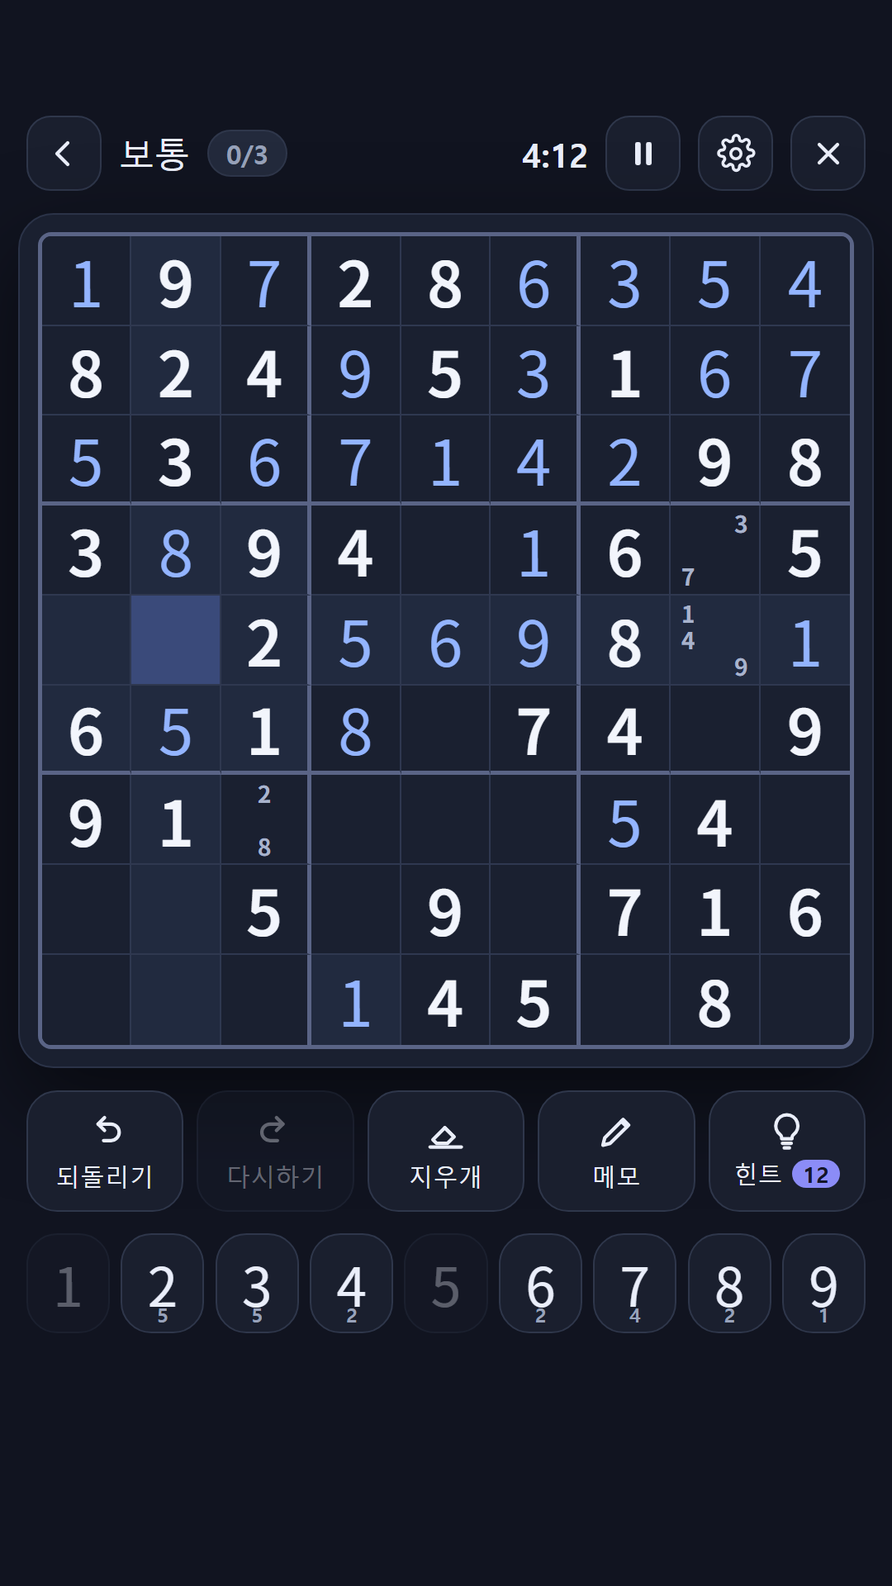
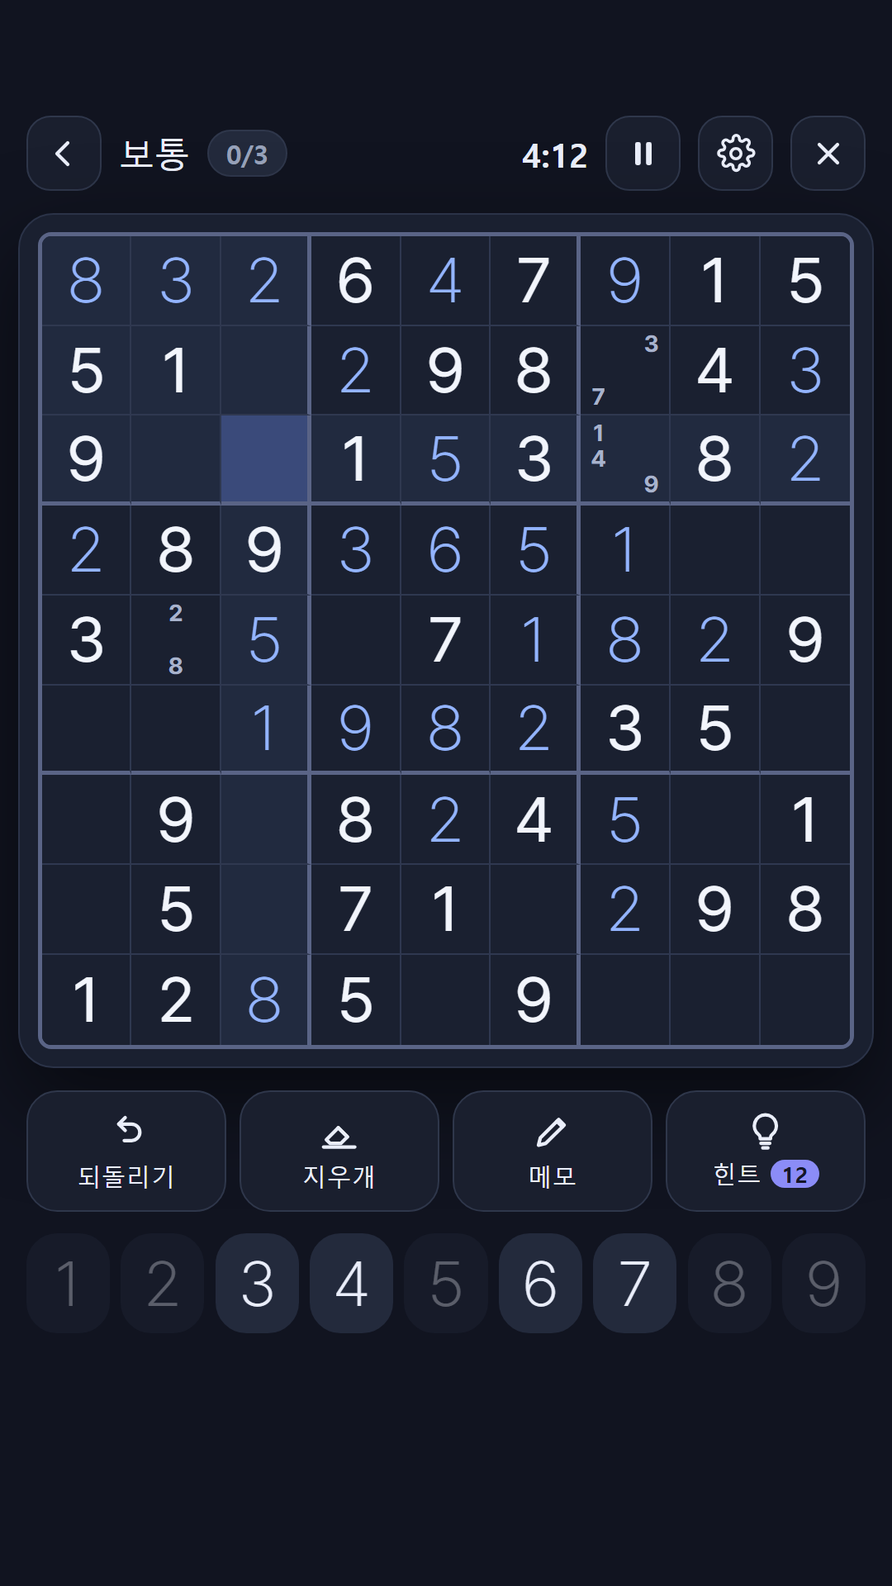
기본 글꼴 프리텐다드 ExtraLight 200 (1-33) · 다시하기·남은 개수·키 테두리 제거 (1-34)
기본값을 프리텐다드 ExtraLight 200 으로 정했다. 글꼴 설정의 저장 키를 v2 로
올렸다 — 앞선 버전에서 한 번이라도 글꼴을 만진 기기에는 옛 값이 남아 새 기본이
보이지 않기 때문이다. 아직 값을 정하는 중이라 여기서 한 번 비우고 간다.

다시하기를 없앴다. 버튼만 걷지 않고 S.future 까지 걷었다 — 되돌린 것을 담아
둘 곳이 없으니 스택도 저장본도 필요 없다. 도구는 넷이 됐다.

숫자판의 남은 개수와 그 설정 행을 뺐다. 다 쓴 숫자를 흐리게 두는 것은 남긴다.

숫자 키의 테두리를 없애고 보드 숫자와 같은 글꼴·두께·크기를 쓰게 했다. 배경은
패널색(흰색) 대신 한 단계 옅은 색으로 바꿨다 — 배경도 흰색이라 그대로 두면
누를 곳이 어디인지 보이지 않는다.

검증: 7개 뷰포트 × (기본·최대 크기/두께·설정 한/영) 넘침 0, 칸 밖 숫자 0,
도구 이름 한 줄. 테스트 402건 통과. 스토어 스크린샷 재촬영.

Claude-Session: https://claude.ai/code/session_01WmQVhUnsNdVUHnQAEa6Dzo

diff --git a/index.html b/index.html
@@ -287,12 +287,12 @@ button {
   background: transparent;
   display: grid; place-items: center;
   /* 숫자는 본고딕으로 쓴다. tabular 숫자를 함께 켜야 칸마다 자리가 흔들리지 않는다. */
-  font-family: var(--num-font, 'Noto Sans KR', system-ui, sans-serif);
+  font-family: var(--num-font, 'Pretendard', system-ui, sans-serif);
   font-variant-numeric: tabular-nums;
   /* 본고딕은 가변 글꼴이라 중간 굵기가 실제로 있다(Andika 는 400·700 뿐이라
      600 을 주면 Bold 로 튀었다). 그래도 존재감은 굵기가 아니라 크기로 준다. */
   font-size: calc(var(--cell) * var(--num-size, .70));
-  font-weight: var(--num-weight, 400);
+  font-weight: var(--num-weight, 200);
   line-height: 1;
   color: var(--ink-user);
   user-select: none;
@@ -310,7 +310,7 @@ button {
 .cell[data-c="8"] { border-right: none; }
 .cell[data-r="8"] { border-bottom: none; }
 
-.cell.given { color: var(--ink); font-weight: var(--num-weight-given, 600); }
+.cell.given { color: var(--ink); font-weight: var(--num-weight-given, 400); }
 .cell.err   { color: var(--ink-err); }
 
 /* 강조는 겹쳐 쌓이므로 약한 것부터 선언한다 */
@@ -334,7 +334,7 @@ button {
   position: absolute; inset: 2px;
   display: grid;
   grid-template: repeat(3, 1fr) / repeat(3, 1fr);
-  font-family: var(--note-font, system-ui, sans-serif);
+  font-family: var(--note-font, 'Pretendard', system-ui, sans-serif);
   font-size: calc(var(--cell) * var(--note-size, .26));
   font-weight: var(--note-weight, 700);   /* 메모는 아주 작아서 기본을 굵게 둔다 */
   color: var(--ink-note);
@@ -373,7 +373,7 @@ button {
   min-width: min(100%, 330px);
   max-width: 100%;
   display: grid;
-  grid-template-columns: repeat(5, 1fr);
+  grid-template-columns: repeat(4, 1fr);
   gap: 6px;
 }
 .tool {
@@ -418,23 +418,19 @@ button {
   position: relative;
   aspect-ratio: 1 / 1.2;
   border-radius: 14px;
-  background: var(--ui-panel);
-  border: 1px solid var(--ui-line);
+  /* 테두리를 없앴으므로 배경으로만 버튼임을 알린다. 패널색(흰색)을 그대로 쓰면
+     흰 바탕에 묻혀 누를 곳이 어디인지 보이지 않는다. */
+  background: var(--ui-panel-2);
+  border: 0;
   color: var(--ui-text);
-  font-family: var(--num-font, 'Noto Sans KR', system-ui, sans-serif);   /* 보드와 같은 숫자 */
+  /* 보드 숫자와 같은 글꼴·두께·크기를 그대로 쓴다 */
+  font-family: var(--num-font, 'Pretendard', system-ui, sans-serif);
   font-variant-numeric: tabular-nums;
-  font-weight: var(--num-weight, 400);
-  /* 보드 숫자보다 조금 작게 — 같은 비율이면 키가 답답해 보인다 */
-  font-size: clamp(18px, calc(var(--cell) * var(--num-size, .70) * .86), 34px);
+  font-weight: var(--num-weight, 200);
+  font-size: clamp(18px, calc(var(--cell) * var(--num-size, .70)), 40px);
   display: grid; place-items: center;
 }
 .num:active { transform: translateY(1px); }
-.num .left {
-  position: absolute; bottom: 2px; right: 0; left: 0;
-  font-family: system-ui, sans-serif;
-  font-size: 9px; font-weight: 700; color: var(--ui-dim);
-  text-align: center;
-}
 .num.done { opacity: .34; }
 
 /* ===== 하단 줄 ===== */
@@ -578,7 +574,6 @@ button {
 .num.picked {
   background: var(--accent); border-color: var(--accent); color: var(--accent-ink);
 }
-.num.picked .left { color: var(--accent-ink); opacity: .8; }
 
 /* 도움말 */
 ul.help { margin: 0; padding: 0; list-style: none; display: grid; gap: 12px; }
@@ -668,10 +663,6 @@ ul.help span { font-size: 12.5px; color: var(--ui-dim); line-height: 1.55; }
   <symbol id="i-undo" viewBox="0 0 24 24" fill="none" stroke="currentColor" stroke-width="1.9"
           stroke-linecap="round" stroke-linejoin="round">
     <path d="M8 8h7a4.5 4.5 0 1 1 0 9h-4"/><path d="M8 8l3.5-3.5M8 8l3.5 3.5"/>
-  </symbol>
-  <symbol id="i-redo" viewBox="0 0 24 24" fill="none" stroke="currentColor" stroke-width="1.9"
-          stroke-linecap="round" stroke-linejoin="round">
-    <path d="M16 8H9a4.5 4.5 0 1 0 0 9h4"/><path d="M16 8l-3.5-3.5M16 8l-3.5 3.5"/>
   </symbol>
   <symbol id="i-eraser" viewBox="0 0 24 24" fill="none" stroke="currentColor" stroke-width="1.9"
           stroke-linecap="round" stroke-linejoin="round">
@@ -791,7 +782,6 @@ ul.help span { font-size: 12.5px; color: var(--ui-dim); line-height: 1.55; }
   <div class="side">
     <div class="tools">
       <button class="tool" id="btnUndo"><svg><use href="#i-undo"/></svg><span data-i18n="undo">되돌리기</span></button>
-      <button class="tool" id="btnRedo"><svg><use href="#i-redo"/></svg><span data-i18n="redo">다시하기</span></button>
       <button class="tool" id="btnErase"><svg><use href="#i-eraser"/></svg><span data-i18n="erase">지우개</span></button>
       <button class="tool" id="btnNotes" aria-pressed="false"><svg><use href="#i-pencil"/></svg><span data-i18n="notes">메모</span></button>
       <button class="tool" id="btnHint"><svg><use href="#i-bulb"/></svg><span class="tool-line"><span data-i18n="hint">힌트</span><span class="count" id="hintCoins">0</span></span></button>
@@ -1270,7 +1260,7 @@ const I18N = {
     appName1: "브레인 스도쿠", appName2: "도쿠도쿠",
     boardLabel: "스도쿠 보드",
     lang: "언어 전환", pause: "일시정지", stats: "기록", theme: "테마 전환", back: "뒤로",
-    undo: "되돌리기", redo: "다시하기", erase: "지우개", notes: "메모", hint: "힌트",
+    undo: "되돌리기", erase: "지우개", notes: "메모", hint: "힌트",
     newGame: "새 게임", cancel: "취소", close: "닫기",
     start: "시작", startNotes: "자동 메모 사용 시작",
     padEnter: n => n + " 입력",
@@ -1338,7 +1328,6 @@ const I18N = {
     setMistakeLimit: ["실수 제한", "정답과 다른 숫자를 세 번 놓으면 그 판이 끝납니다."],
     setShowPeers: ["줄과 박스 표시", "고른 칸과 같은 줄·박스를 옅게 칠합니다."],
     setShowSame: ["같은 숫자 표시", "고른 숫자와 같은 숫자가 든 칸을 함께 보여 줍니다."],
-    setShowLeft: ["남은 개수 표시", "숫자판에 각 숫자가 몇 개 남았는지 적습니다."],
     setNumberFirst: ["숫자 먼저 고르기", "숫자를 고른 뒤 칸을 눌러 채웁니다. 같은 숫자를 여러 칸에 넣을 때 빠릅니다."],
     setShowErrors: ["오류 표시", "규칙을 어긴 숫자를 빨갛게 보여 줍니다."],
     setShowTimer: ["시간 표시", "머리글에 경과 시간을 보여 줍니다."],
@@ -1373,7 +1362,7 @@ const I18N = {
     appName1: "Brain Sudoku", appName2: "Dokudoku",
     boardLabel: "Sudoku board",
     lang: "Change language", pause: "Pause", stats: "Statistics", theme: "Toggle theme", back: "Back",
-    undo: "Undo", redo: "Redo", erase: "Erase", notes: "Notes", hint: "Hint",
+    undo: "Undo", erase: "Erase", notes: "Notes", hint: "Hint",
     newGame: "New game", cancel: "Cancel", close: "Close",
     start: "Start", startNotes: "Start with auto notes",
     padEnter: n => "Enter " + n,
@@ -1441,7 +1430,6 @@ const I18N = {
     setMistakeLimit: ["Mistake limit", "The puzzle ends after three numbers that do not match the solution."],
     setShowPeers: ["Show row and box", "Shade the row, column and box of the selected cell."],
     setShowSame: ["Show matching numbers", "Highlight cells holding the same number."],
-    setShowLeft: ["Show how many are left", "Write the remaining count on each keypad digit."],
     setNumberFirst: ["Pick the number first", "Choose a number, then tap cells to place it. Faster when filling the same digit repeatedly."],
     setShowErrors: ["Show mistakes", "Mark numbers that break a rule in red."],
     setShowTimer: ["Show the timer", "Display elapsed time in the header."],
@@ -1559,7 +1547,6 @@ function newState(diffKey, puzzle, solution, dailyKey) {
     lost: false,                   // 실수 제한에 걸려 끝난 판
     elapsed: 0,                    // 누적 밀리초
     history: [],
-    future: [],
     done: false,
   };
 }
@@ -1572,7 +1559,7 @@ function saveGame() {
   store(KEY_GAME, {
     diff: S.diff, daily: S.daily, puzzle: S.puzzle, solution: S.solution, grid: S.grid,
     notes: S.notes, hints: S.hints, undos: S.undos, mistakes: S.mistakes, elapsed: elapsedMs(),
-    history: S.history, future: S.future,
+    history: S.history,
   });
 }
 
@@ -1602,7 +1589,6 @@ function restoreGame() {
   s.mistakes = g.mistakes | 0;
   s.elapsed = g.elapsed | 0;
   s.history = Array.isArray(g.history) ? g.history : [];
-  s.future = Array.isArray(g.future) ? g.future : [];
   return s;
 }
 
@@ -1723,11 +1709,9 @@ function buildPad() {
     btn.setAttribute("aria-label", L().padEnter(d));
     const face = document.createElement("span");
     face.textContent = d;
-    const left = document.createElement("span");
-    left.className = "left";
-    btn.append(face, left);
+    btn.appendChild(face);
     padEl.appendChild(btn);
-    numEls.push({ btn, left });
+    numEls.push({ btn });
   }
 }
 
@@ -1784,7 +1768,6 @@ function updateView() {
   for (const v of S.grid) if (v) counts[v]++;
   for (let d = 1; d <= 9; d++) {
     const left = 9 - counts[d];
-    numEls[d - 1].left.textContent = (settings.showLeft && left > 0) ? left : "";
     numEls[d - 1].btn.classList.toggle("done", left <= 0);
     numEls[d - 1].btn.disabled = left <= 0;
     numEls[d - 1].btn.classList.toggle("picked", settings.numberFirst && padSel === d);
@@ -1801,7 +1784,6 @@ function updateView() {
   // 흐리게만 표시하고 눌리게 둔 다음, showHint() 가 이유를 설명한다.
   $("btnHint").setAttribute("aria-disabled", String(coins < HINT_COST));
   $("btnUndo").disabled = S.history.length === 0;
-  $("btnRedo").disabled = S.future.length === 0;
   $("btnNotes").setAttribute("aria-pressed", String(S.notesMode));
   $("diffBadge").textContent = diffName(S.diff);
 }
@@ -1945,7 +1927,6 @@ function commit(changes) {
   if (!entry.length) return false;
   for (const e of entry) { S.grid[e.i] = e.after.v; S.notes[e.i] = e.after.n; }
   S.history.push(entry);
-  S.future.length = 0;
   return true;
 }
 
@@ -1954,18 +1935,7 @@ function undo() {
   const e = S.history.pop();
   if (!e) return;
   for (const c of e) { S.grid[c.i] = c.before.v; S.notes[c.i] = c.before.n; }
-  S.future.push(e);
   S.undos++;
-  buzz(6);
-  afterChange();
-}
-
-function redo() {
-  if (!S || S.done) return;
-  const e = S.future.pop();
-  if (!e) return;
-  for (const c of e) { S.grid[c.i] = c.after.v; S.notes[c.i] = c.after.n; }
-  S.history.push(e);
   buzz(6);
   afterChange();
 }
@@ -2294,7 +2264,6 @@ const SETTING_DEFAULTS = {
   showErrors: true,     // 규칙을 어긴 숫자를 표시
   showPeers: true,      // 고른 칸의 줄·박스를 옅게 표시
   showSame: true,       // 같은 숫자가 든 칸을 함께 표시
-  showLeft: true,       // 숫자판에 남은 개수 표시
   showTimer: true,      // 경과 시간 표시
 };
 
@@ -2359,26 +2328,29 @@ const lastDiff = () => { const v = load(KEY_LASTDIFF); return isDiffKey(v) ? v :
    보드 숫자와 메모를 따로 고르게 둔 이유: 메모는 칸 하나에 아홉 개가 들어가는
    아주 작은 글자라, 큰 숫자에 어울리는 글꼴이 여기서는 읽히지 않을 수 있다. */
 const FONTS = {
-  noto:  "'Noto Sans KR', system-ui, sans-serif",
   pretendard: "'Pretendard', system-ui, sans-serif",
+  noto:  "'Noto Sans KR', system-ui, sans-serif",
   sans:  "system-ui, sans-serif",
   serif: "Georgia, 'Times New Roman', serif",
   mono:  "ui-monospace, 'Courier New', monospace",
   round: "'Trebuchet MS', 'Segoe UI', system-ui, sans-serif",
 };
 
-const KEY_NUMFONT  = "sudoku.numfont.v1";
-const KEY_NOTEFONT = "sudoku.notefont.v1";
-const numFont  = () => { const v = load(KEY_NUMFONT);  return FONTS[v] ? v : "noto"; };
-const noteFont = () => { const v = load(KEY_NOTEFONT); return FONTS[v] ? v : "noto"; };
+/* 키를 v2 로 올린 이유: 기본값을 프리텐다드 ExtraLight 200 으로 정했는데, 앞선
+   버전에서 글꼴을 한 번이라도 만진 기기에는 옛 값이 남아 새 기본이 보이지 않는다.
+   고르는 값을 정하는 중이라 여기서 한 번 비우고 간다. */
+const KEY_NUMFONT  = "sudoku.numfont.v2";
+const KEY_NOTEFONT = "sudoku.notefont.v2";
+const numFont  = () => { const v = load(KEY_NUMFONT);  return FONTS[v] ? v : "pretendard"; };
+const noteFont = () => { const v = load(KEY_NOTEFONT); return FONTS[v] ? v : "pretendard"; };
 
 function applyNumFont(key) {
-  const k = FONTS[key] ? key : "noto";
+  const k = FONTS[key] ? key : "pretendard";
   document.documentElement.style.setProperty("--num-font", FONTS[k]);
   store(KEY_NUMFONT, k);
 }
 function applyNoteFont(key) {
-  const k = FONTS[key] ? key : "noto";
+  const k = FONTS[key] ? key : "pretendard";
   document.documentElement.style.setProperty("--note-font", FONTS[k]);
   store(KEY_NOTEFONT, k);
 }
@@ -2399,13 +2371,13 @@ const WEIGHT_NAMES = {
 };
 const weightName = w => WEIGHT_NAMES[w] + " " + w;
 
-const KEY_NUMWEIGHT  = "sudoku.numweight.v1";
-const KEY_NOTEWEIGHT = "sudoku.noteweight.v1";
-const numWeight  = () => { const v = load(KEY_NUMWEIGHT);  return WEIGHTS.includes(v) ? v : 400; };
+const KEY_NUMWEIGHT  = "sudoku.numweight.v2";
+const KEY_NOTEWEIGHT = "sudoku.noteweight.v2";
+const numWeight  = () => { const v = load(KEY_NUMWEIGHT);  return WEIGHTS.includes(v) ? v : 200; };
 const noteWeight = () => { const v = load(KEY_NOTEWEIGHT); return WEIGHTS.includes(v) ? v : 700; };
 
 function applyNumWeight(w) {
-  const v = WEIGHTS.includes(w) ? w : 400;
+  const v = WEIGHTS.includes(w) ? w : 200;
   const root = document.documentElement.style;
   root.setProperty("--num-weight", String(v));
   // 문제로 주어진 숫자는 두 단계 굵게 — 어느 두께를 골라도 구분이 남는다
@@ -2428,8 +2400,8 @@ const NUM_SIZES  = [0.55, 0.60, 0.65, 0.70, 0.75, 0.80, 0.85];
 const NOTE_SIZES = [0.20, 0.23, 0.26, 0.29, 0.32];
 const sizeName = v => Math.round(v * 100) + "%";
 
-const KEY_NUMSIZE  = "sudoku.numsize.v1";
-const KEY_NOTESIZE = "sudoku.notesize.v1";
+const KEY_NUMSIZE  = "sudoku.numsize.v2";
+const KEY_NOTESIZE = "sudoku.notesize.v2";
 const numSize  = () => { const v = load(KEY_NUMSIZE);  return NUM_SIZES.includes(v)  ? v : 0.70; };
 const noteSize = () => { const v = load(KEY_NOTESIZE); return NOTE_SIZES.includes(v) ? v : 0.26; };
 
@@ -2501,7 +2473,6 @@ const SETTING_ROWS = [
   { key: "showErrors",  i18n: "setShowErrors" },
   { key: "showPeers",   i18n: "setShowPeers" },
   { key: "showSame",    i18n: "setShowSame" },
-  { key: "showLeft",    i18n: "setShowLeft" },
   { key: "showTimer",   i18n: "setShowTimer" },
 ];
 
@@ -2820,7 +2791,6 @@ padEl.addEventListener("click", e => {
   }
 });
 $("btnUndo").addEventListener("click", undo);
-$("btnRedo").addEventListener("click", redo);
 $("btnErase").addEventListener("click", eraseCell);
 $("btnHint").addEventListener("click", showHint);
 $("btnHintClose").addEventListener("click", dismissHint);
@@ -2957,7 +2927,6 @@ document.addEventListener("keydown", e => {
     case "n": case "N": $("btnNotes").click(); break;
     case "h": case "H": showHint(); break;
     case "z": case "Z": undo(); break;
-    case "y": case "Y": redo(); break;
     case " ": pauseGame(); e.preventDefault(); break;
   }
 });

diff --git a/test/game.test.js b/test/game.test.js
@@ -22,7 +22,7 @@ global.navigator = { vibrate: () => true };
 global.location = { protocol: "file:", hostname: "" };
 global.setInterval = () => 0;
 
-const EX = ["makeSolved","countSolutions","rate","generatePuzzle","conflicts","commit","undo","redo",
+const EX = ["makeSolved","countSolutions","rate","generatePuzzle","conflicts","commit","undo",
   "inputDigit","eraseCell","showHint","applyHint","dismissHint","findHint","select","updateView","newState","saveGame","restoreGame",
   "getStats","recordWin","scoreFor","levelOf","computeAutoNotes","getCoins","setCoins","addCoins","spendCoins","INITIAL_COINS","HINT_COST","WIN_REWARD","KEY_COINS","KEY_STATS","drop","loadSettings","setSetting","SETTING_DEFAULTS","placeDigit","buzz","KEY_SETTINGS","SETTING_ROWS","SCORE_BASE","PAR_MS","DIFFS","diffName","applyLang","I18N","bit","fmt","elapsedMs","startTimer","stopTimer","PEERS","RATE_MIN","GIVEN_CEIL",
   "sfx","syncMusic","musicPlaying","closeOverlay","MISTAKE_MAX","countMistake","select","inputDigit","FONTS","noteFont","applyNoteFont","numFont","applyNumFont","nextFont","KEY_NUMFONT","WEIGHTS","weightName","NUM_SIZES","NOTE_SIZES","sizeName","numSize","noteSize","applyNumSize","applyNoteSize","nextIn","numWeight","noteWeight","applyNumWeight","applyNoteWeight","nextWeight","ACCENTS","accentKey","applyAccent","KEY_ACCENT","KEY_NOTEFONT"];
@@ -82,9 +82,8 @@ const ok = (n, c, e) => { if (c) pass++; else { fail++; console.log("  실패: "
 
   T.undo();
   ok("되돌리기로 숫자가 살아난다", T.S.grid[i0] === correct);
-  T.redo();
-  ok("다시하기로 again 지워진다", T.S.grid[i0] === 0);
-  T.undo();
+  // 다시하기는 없앴다 — 되돌린 것을 다시 밀어 넣을 곳도 두지 않는다
+  ok("되돌린 것을 담아 두지 않는다", T.S.future === undefined);
 
   // given 칸은 건드릴 수 없다
   const gi = S.puzzle.findIndex(v => v !== 0);
@@ -568,19 +567,20 @@ const ok = (n, c, e) => { if (c) pass++; else { fail++; console.log("  실패: "
        fkeys.join(","));
     ok("심어 둔 글꼴 둘이 목록에 있다", "noto" in T.FONTS && "pretendard" in T.FONTS);
     T.applyNumFont("없는글꼴");
-    ok("모르는 숫자 글꼴은 기본으로", T.numFont() === "noto");
+    ok("모르는 숫자 글꼴은 기본으로", T.numFont() === "pretendard");
 
     // 두께 — 가변 글꼴이라 100~900 을 모두 고를 수 있다
     T.applyNumWeight(200);
     ok("고른 두께가 남는다", T.numWeight() === 200);
     ok("이름이 붙는다", T.weightName(200) === "ExtraLight 200", T.weightName(200));
     T.applyNumWeight(12345);
-    ok("모르는 두께는 기본으로", T.numWeight() === 400);
+    ok("모르는 두께는 기본으로", T.numWeight() === 200, String(T.numWeight()));
+    ok("기본은 ExtraLight 200", T.weightName(T.numWeight()) === "ExtraLight 200");
     ok("두께도 한 칸씩 돈다",
        T.nextWeight(100) === 200 && T.nextWeight(900) === 100,
        T.nextWeight(100) + "," + T.nextWeight(900));
     T.applyNoteWeight(300);
-    ok("숫자와 메모 두께는 따로", T.noteWeight() === 300 && T.numWeight() === 400);
+    ok("숫자와 메모 두께는 따로", T.noteWeight() === 300 && T.numWeight() === 200);
     ok("두께는 아홉 단계", T.WEIGHTS.length === 9 && T.WEIGHTS[0] === 100 && T.WEIGHTS[8] === 900);
 
     // 크기 — 칸에 대한 비율이다
@@ -591,13 +591,15 @@ const ok = (n, c, e) => { if (c) pass++; else { fail++; console.log("  실패: "
     ok("모르는 크기는 기본으로", T.numSize() === 0.70);
     T.applyNoteSize(0.32);
     ok("숫자와 메모 크기는 따로", T.noteSize() === 0.32 && T.numSize() === 0.70);
+    ok("메모는 굵게 남긴다 — 작아서 가늘면 안 읽힌다", T.SETTING_ROWS.some(r => r.key === "noteWeight"));
     ok("크기도 한 칸씩 돈다",
        T.nextIn(T.NUM_SIZES, 0.55) === 0.60 && T.nextIn(T.NUM_SIZES, 0.85) === 0.55);
     T.applyNoteSize(0.26);
     T.applyNoteWeight(700);
     T.applyNoteFont("없는글꼴");
-    ok("모르는 값은 기본으로", T.noteFont() === "noto", T.noteFont());
+    ok("모르는 값은 기본으로", T.noteFont() === "pretendard", T.noteFont());
     ok("본고딕이 목록에 있다", "noto" in T.FONTS);
+    ok("기본 글꼴은 프리텐다드", T.noteFont() === "pretendard");
 
     T.applyAccent("teal");
     ok("고른 색이 남는다", T.accentKey() === "teal");

diff --git a/test/engine.test.js b/test/engine.test.js
@@ -26,7 +26,7 @@ global.location = { protocol: "file:", hostname: "" };
 global.setInterval = () => 0;
 
 const EXPORTS = ["makeSolved","countSolutions","rate","logicSolve","generatePuzzle","conflicts",
-  "commit","undo","redo","inputDigit","eraseCell","showHint","applyHint","findHint","select","updateView","newState",
+  "commit","undo","inputDigit","eraseCell","showHint","applyHint","findHint","select","updateView","newState",
   "saveGame","restoreGame","getStats","recordWin","startGame","fmt","DIFFS","diffName","applyLang","I18N","RATE_MIN","PEERS","ALL_UNITS"];
 const src = m[1] + "\n;globalThis.__T = { " + EXPORTS.join(", ") + ", get S(){return S;}, set S(v){S=v;} };";
 (0, eval)(src);

diff --git a/BACKLOG.md b/BACKLOG.md
@@ -42,6 +42,8 @@
 | 1-9 | 첫 실행 사용법 안내 | **완료** | 첫 실행에 한 번 뜨고, 이후에는 Home 의 물음표 버튼으로 언제든 볼 수 있다. 입력·규칙·메모·힌트·데일리 다섯 가지 |
 | 1-10 | 입력 편의 — 숫자 우선 모드 | **완료** | 설정에서 켠다. 고른 숫자가 패드에서 강조되고 같은 숫자가 든 칸이 함께 보인다. 같은 숫자를 다시 누르면 해제 |
 | 1-25 | **배경을 흰색으로, 숫자 글꼴을 Andika 로** | **완료** | 라이트 테마 배경 `#eef1f8`→`#ffffff`. 카드도 흰색이라 경계가 사라져 테두리와 격자선을 조금 진하게 잡았다. 숫자 글꼴은 Andika(SIL) — 1 과 7, 6 과 9 가 헷갈리지 않게 그려진 글꼴이다. 인터넷 권한이 없어 받아 올 수 없고 `file://` 에서 바깥 파일을 `@font-face` 로 부르면 막히는 일이 있어, latin 서브셋 woff2 두 벌(38KB)을 base64 로 심었다. 보드·숫자판·메모에 쓴다. OFL 1.1 이라 전문을 `fonts/OFL-Andika.txt` 에 두고 설정 아래에 고지를 넣었다 |
+| 1-33 | **기본 글꼴을 프리텐다드 ExtraLight 200 으로** | **완료** | 저장 키를 v2 로 올렸다 — 앞선 버전에서 글꼴을 한 번이라도 만진 기기에는 옛 값이 남아 새 기본이 보이지 않는다. 값을 정하는 중이라 한 번 비우고 간다 |
+| 1-34 | **다시하기 · 남은 개수 · 숫자 키 테두리 제거** | **완료** | 다시하기는 버튼과 `S.future` 까지 걷었다(되돌린 것을 담아 둘 곳이 없다). 숫자판의 남은 개수와 그 설정 행도 뺐다 — 다 쓴 숫자를 흐리게 두는 것은 남긴다. 숫자 키는 테두리를 없애고 보드 숫자와 같은 글꼴·두께·크기를 쓴다. 배경은 패널색 대신 한 단계 옅은 색으로 바꿨다 — 흰 바탕에서 흰 패널은 누를 곳이 보이지 않는다 |
 | 1-31 | **글자 크기 설정** | **완료** | 숫자는 칸의 55~85%, 메모는 20~32% 를 일곱·다섯 단계로 고른다. 절대 크기가 아니라 칸에 대한 비율이라, 화면이 커져 칸이 커지면 글자도 함께 커진다. 가장 크고 굵은 조합(85% · Black 900)에서도 숫자가 칸을 벗어나지 않는 것을 7개 뷰포트에서 확인했다 |
 | 1-32 | **간헐적으로 깨지던 엔진 테스트** | **완료** | "해가 갈라지는 배치를 찾았다" 가 무작위 완성판 한 판만 보고 판정해서, 그런 배치가 없는 판이 나오면 이유 없이 실패했다. 최대 20판을 훑는다 |
 | 1-30 | **글꼴 두께 설정** | **완료** | Thin 100 ~ Black 900 아홉 단계. 심어 둔 두 글꼴이 가변이라 모두 실제로 나온다(기기 글꼴은 가장 가까운 쪽으로 붙는다). 숫자와 메모를 따로 고르고, 문제로 주어진 숫자는 고른 값보다 두 단계(+200, 900 상한) 굵게 그려 어느 두께에서도 구분이 남는다 |
